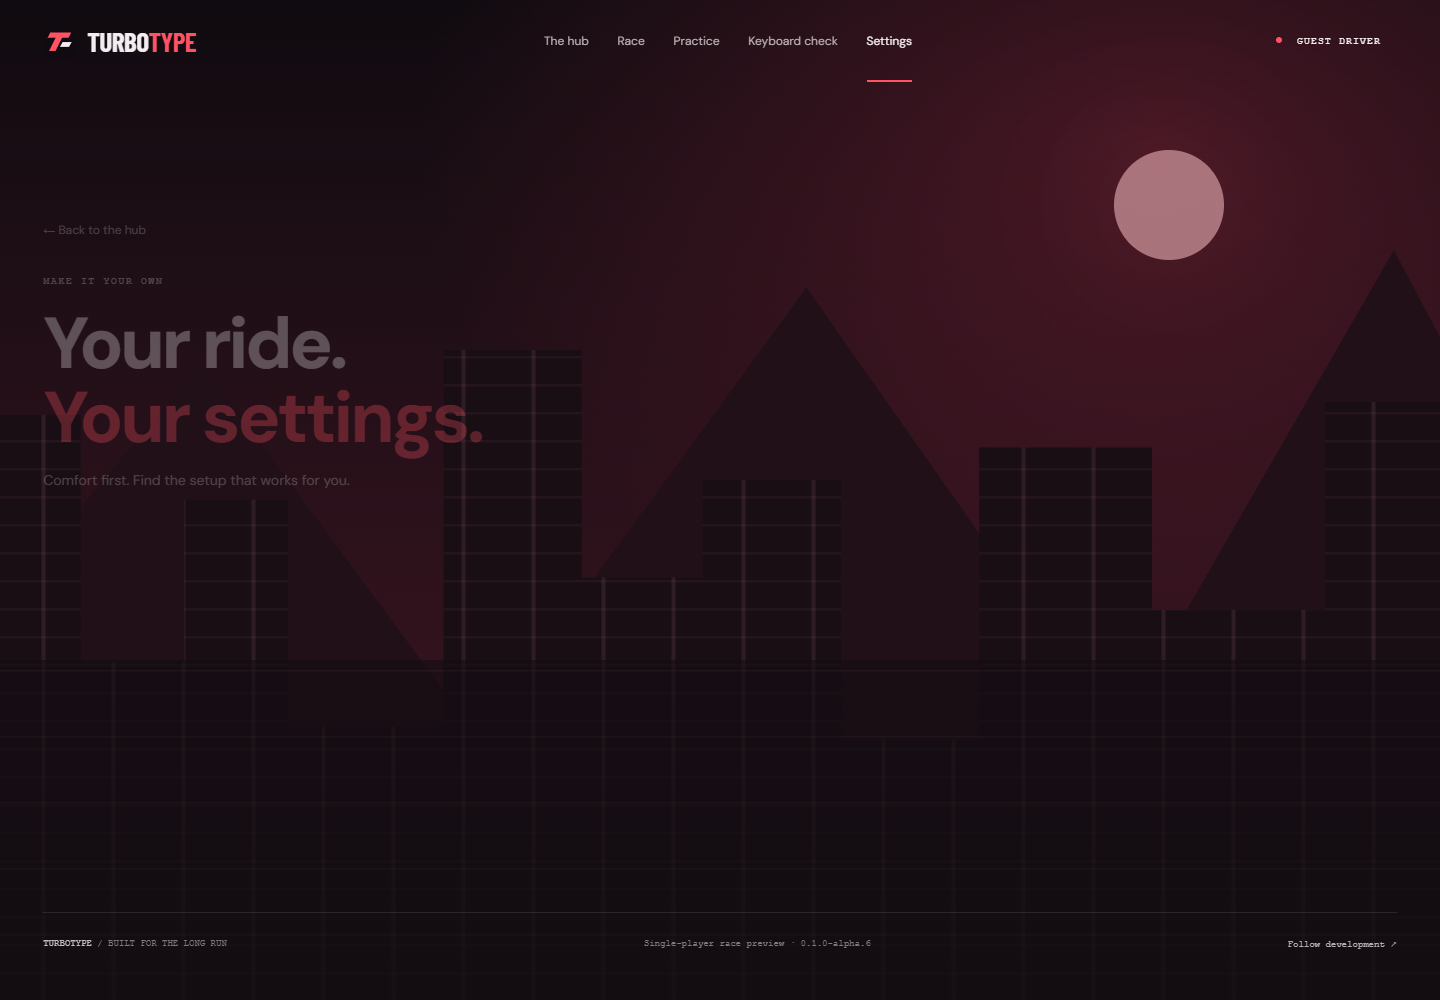
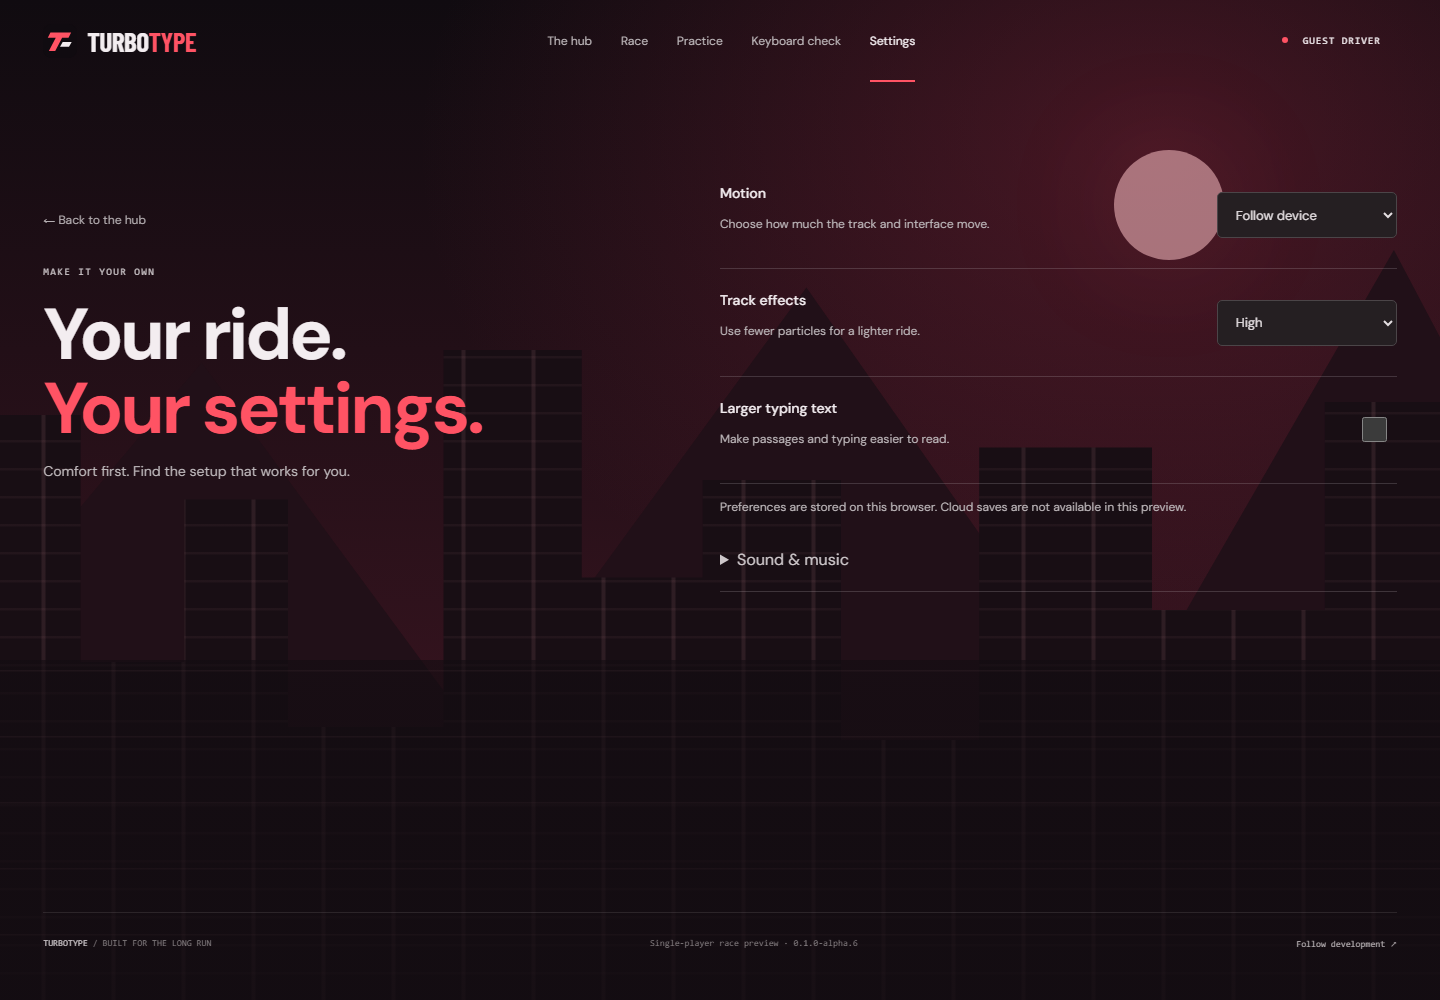
Record theme verification and settled settings previews

diff --git a/PROJECT_STATUS.md b/PROJECT_STATUS.md
@@ -6,7 +6,7 @@ Last reviewed: 21 October 2026. This file is the persistent status source for fu
 
 ## Current position
 
-**Latest visual update: 0.1.0-alpha.6 applies the requested red-and-black theme to all existing routes, both Phaser scenes, the player kart and Live WPM dial.** Formatting, strict types and production build pass; 18 focused browser cases pass across desktop/phone/tablet Chromium. Scripted screenshots and palette recreation details are in docs/IMMERSIVE_APP.md. This is a Phase 5/6 visual refinement, not completion of the remaining fleet, onboarding or device gates. Alpha.5 full-suite/CI evidence below remains historical; new hosted CI must be checked separately.
+**Latest visual update: 0.1.0-alpha.6 applies the requested red-and-black theme to all existing routes, both Phaser scenes, the player kart and Live WPM dial.** Formatting, strict types and production build pass; 18 focused browser cases pass across desktop/phone/tablet Chromium. Scripted screenshots and palette recreation details are in docs/IMMERSIVE_APP.md. This is a Phase 5/6 visual refinement, not completion of the remaining fleet, onboarding or device gates. Alpha.5 full-suite/CI evidence below remains historical; Theme source `dec855d` is pushed in PR #4; hosted [run 39521010519](https://github.com/sahilshah2904/TurboType/actions/runs/39521010519) was still running at handoff, so no new hosted pass is claimed.
 
 **Phases 1–4 remain complete for their agreed scopes. Phase 5 redesign is integrated into the normal application as 0.1.0-alpha.5; the full local check passed with 83 unit and 72 browser cases; new physical-device acceptance remains open. Phase 6 existing-page visual work is also implemented, but cinematic opening/tutorial/calibration remain unstarted.** The user approved the TT-507 kart direction and then explicitly requested a realtime speedometer and revamp of all existing pages. The actual Race route now has a responsive full-window Phaser kart scene, one visible typing surface, moving exhaust, setup/pause/results controls and a recent-WPM dial. Hub, Practice, Keyboard check and Settings share the open full-window world. Rules remain 3; save/content remain 1. Distinct fleet art and final device/performance acceptance are still pending. [Implementation guide](docs/IMMERSIVE_APP.md).
 

diff --git a/docs/IMMERSIVE_APP.md b/docs/IMMERSIVE_APP.md
@@ -8,7 +8,7 @@ The current theme applies to all five normal routes, not the historical standalo
 
 Recreate the palette by following those two CSS files and the scene color constants in src/game/race-track.ts and src/game/track-preview.ts. The approved PNG stays byte-for-byte unchanged. CSS hue-rotate(285deg) colors the hub hero; Phaser bakes the same rotation into a 640×320 player texture once per scene. Race still uses four baked variants total, with CPU 1 using the original asset. The decorative hub adds one 640×320 red texture (about 0.8 MB RGBA), disposed with its scene. No per-frame bitmap filtering, additional dependency, rules or storage changes are introduced. Distinct vehicle models remain TT-510.
 
-Current red/black captures: [desktop race](images/alpha6/desktop-racing.png), [hub](images/alpha6/desktop-hub.png), [phone race](images/alpha6/phone-racing.png) and [phone settings](images/alpha6/phone-settings.png). Alpha.5 captures below preserve earlier composition evidence and the previous palette. Real ASUS/Samsung contrast and native-keyboard acceptance remain pending.
+Current red/black captures: [desktop race](images/alpha6/desktop-racing.png), [hub](images/alpha6/desktop-hub.png), [phone race](images/alpha6/phone-racing.png) and [phone settings](images/alpha6/phone-settings.png). Alpha.5 captures below preserve earlier composition evidence and the previous palette. Settings captures wait until all reveal elements reach opacity 1, avoiding a misleading mid-transition contrast sample. Real ASUS/Samsung contrast and native-keyboard acceptance remain pending.
 
 ## Existing pages revamped
 

diff --git a/docs/TESTING.md b/docs/TESTING.md
@@ -4,7 +4,7 @@
 
 On feat/race-polish, npm run format:check, strict typechecking and production build pass. The targeted command npx playwright test tests/browser/immersive.spec.ts tests/browser/race-polish.spec.ts passed **18 cases in 1.3 minutes** across desktop/phone/tablet Chromium with two workers. It verifies all route shells, full-width racing, the live dial, native input retention on compact resize, art loading, audio/failure behavior and bounded/reduced effects. No new tests mirror color constants. Existing rules and settings schemas are unchanged.
 
-This targeted run is distinct from alpha.5's previous 83-unit/72-browser full check and CI evidence below. Alpha.6 hosted CI is pending until its pushed source is verified. Scripted screenshots are recorded in docs/images/alpha6; native Samsung keyboard, perceived contrast/smoothness and final user acceptance remain open. Earlier software-renderer measurements do not constitute new alpha.6 profiling.
+This targeted run is distinct from alpha.5's previous 83-unit/72-browser full check and CI evidence below. Theme source `dec855d` is pushed; hosted [run 39521010519](https://github.com/sahilshah2904/TurboType/actions/runs/39521010519) was in progress at handoff. Scripted screenshots are recorded in docs/images/alpha6; native Samsung keyboard, perceived contrast/smoothness and final user acceptance remain open. Earlier software-renderer measurements do not constitute new alpha.6 profiling.
 
 
 ## Alpha.5 — integrated full-window pages and Live WPM, 21 October 2026
